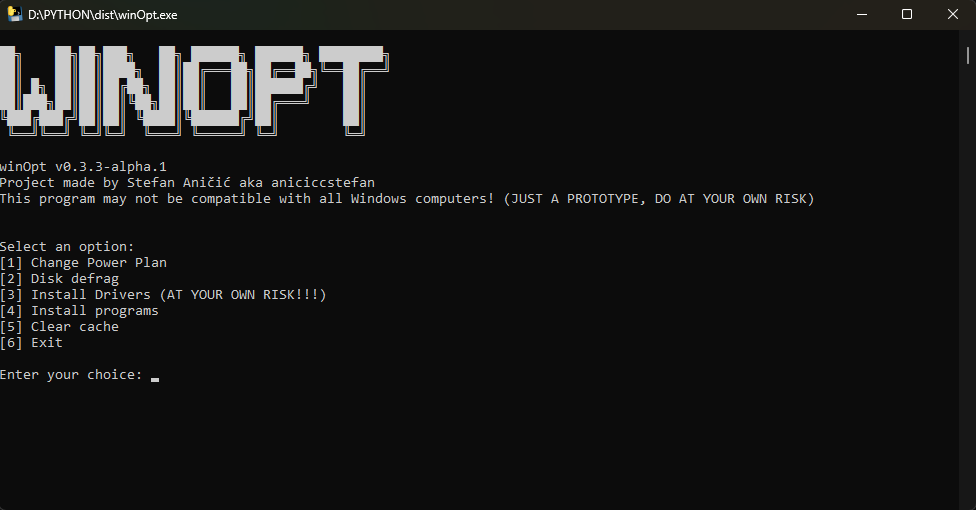
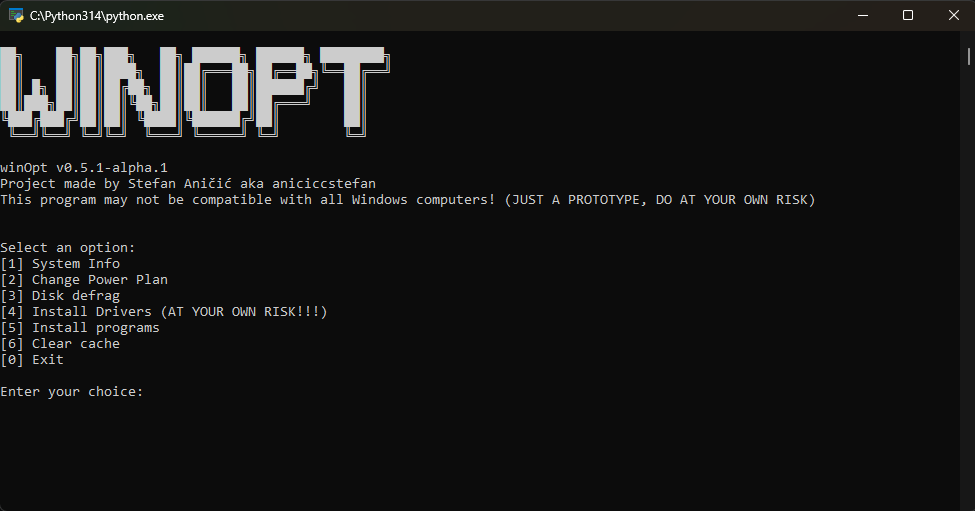
Updated the version

diff --git a/winOpt.py b/winOpt.py
@@ -22,7 +22,7 @@ if not is_admin():
 sys.stdout.reconfigure(encoding='utf-8')
 
 greets = """
-winOpt v0.4.0-alpha.1
+winOpt v0.5.1-alpha.1
 Project made by Stefan Aničić aka aniciccstefan
 This program may not be compatible with all Windows computers! (JUST A PROTOTYPE, DO AT YOUR OWN RISK)
 """

diff --git a/README.md b/README.md
@@ -3,7 +3,7 @@
 > A lightweight Windows optimization and maintenance utility built with Python.
 
 
-![windows](https://img.shields.io/badge/OS-Windows-blue) ![release](https://img.shields.io/badge/Pre--release-v0.4.1--alpha.1-yellow) ![license](https://img.shields.io/badge/License-winOpt_Personal_Use_License-red) ![version.py](https://img.shields.io/badge/python-3.14.0-blue)
+![windows](https://img.shields.io/badge/OS-Windows-blue) ![release](https://img.shields.io/badge/Pre--release-v0.5.1--alpha.1-yellow) ![license](https://img.shields.io/badge/License-winOpt_Personal_Use_License-red) ![version.py](https://img.shields.io/badge/python-3.14.0-blue)
 
 
 winOpt is a Windows-focused command-line utility designed to provide
